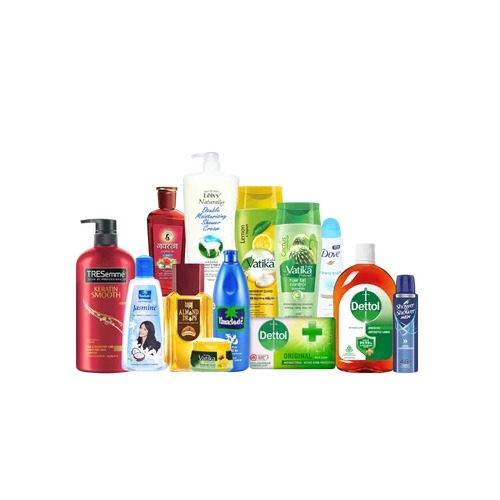
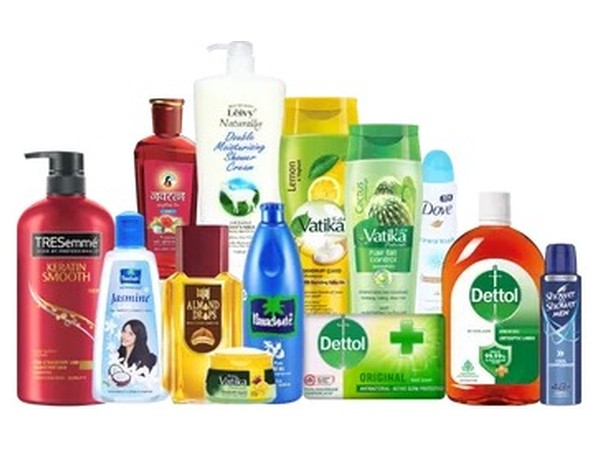
Let the pictures fill their tiles
Every category picture sat small in the middle of its box with white all
around it. Two causes, both fixed.

The box was square while the pictures are not. These are group shots — a
spread of bottles, a pile of spices — and they come out around 3:2, so a
square box left an empty band above and below every one. The box is 4:3
now, which is the shape the pictures actually are.

And the files carried a wide white margin of their own, which no box
shape could have absorbed. Each is trimmed to its subject and rescaled to
fill the frame: most went from filling about 70% of their width to 96%.

Two needed handling on their own. The oil photograph is portrait, so it
is recropped from the original to a landscape composition rather than
being left to fill only the height. The Others wordmark is four times as
wide as it is tall and cannot fill a 4:3 box at any size, so it is set at
a readable width and left as the label it is.

The shelf badges stay square, being round.

All fifteen still under 100 KB; 838 KB for the set.

diff --git a/src/storefront/styles/bundle.css b/src/storefront/styles/bundle.css
@@ -877,12 +877,29 @@ body.ready .page-hide{visibility:visible;opacity:1;transition:opacity .28s ease}
 }
 
 .cat-tile{text-align:center;transition:.2s var(--ease)}
+
+/* Wider than tall, because that is the shape the pictures are.
+ *
+ * These are group shots — a spread of bottles, a pile of spices — and
+ * they come out roughly 3:2. In a square box that left a band of empty
+ * white above and below every one, so the tiles looked mostly blank with
+ * a small picture floating in the middle. Matching the box to the
+ * pictures fills it without cropping anything away.
+ */
 .cat-tile-img{
   border:1px solid var(--line);border-radius:var(--radius);
   overflow:hidden;background:#fff;margin-bottom:9px;
-  aspect-ratio:1/1;transition:.2s var(--ease);
+  aspect-ratio:4/3;transition:.2s var(--ease);
 }
-.cat-tile-img img{width:100%;height:100%;object-fit:contain;transition:transform .4s var(--ease)}
+/* `contain`, never `cover`: a category picture has its subject arranged
+   across the whole frame, and cropping the edges off cuts the bottles at
+   either end out of the shot. No padding either — the margin is trimmed
+   out of the files themselves, so adding more here would only reintroduce
+   the empty band this is meant to remove. */
+.cat-tile-img img{
+  width:100%;height:100%;object-fit:contain;
+  transition:transform .4s var(--ease);
+}
 .cat-tile:hover .cat-tile-img{border-color:var(--red);box-shadow:var(--sh-lg)}
 .cat-tile:hover .cat-tile-img img{transform:scale(1.07)}
 .cat-tile:hover{transform:translateY(-3px)}
@@ -920,8 +937,14 @@ body.ready .page-hide{visibility:visible;opacity:1;transition:opacity .28s ease}
 
 /* An orange edge marks a shelf tile as a different kind of thing even
    once it has scrolled away from the rule. On white like the category
-   pictures, so it is not sitting in a tinted box of its own. */
-.cat-tile.is-shelf .cat-tile-img{border-color:var(--navy);background:#fff}
+   pictures, so it is not sitting in a tinted box of its own.
+
+   Square, unlike the categories: a globe and two round badges are as tall
+   as they are wide, and a 4:3 box would leave a margin down each side
+   rather than removing one. */
+.cat-tile.is-shelf .cat-tile-img{
+  border-color:var(--navy);background:#fff;aspect-ratio:1/1;
+}
 .cat-tile.is-shelf b{color:var(--navy-d)}
 .cat-tile.is-shelf:hover .cat-tile-img{border-color:var(--navy-d)}
 

diff --git a/src/storefront/styles/components/category-browser.css b/src/storefront/styles/components/category-browser.css
@@ -41,12 +41,29 @@
 }
 
 .cat-tile{text-align:center;transition:.2s var(--ease)}
+
+/* Wider than tall, because that is the shape the pictures are.
+ *
+ * These are group shots — a spread of bottles, a pile of spices — and
+ * they come out roughly 3:2. In a square box that left a band of empty
+ * white above and below every one, so the tiles looked mostly blank with
+ * a small picture floating in the middle. Matching the box to the
+ * pictures fills it without cropping anything away.
+ */
 .cat-tile-img{
   border:1px solid var(--line);border-radius:var(--radius);
   overflow:hidden;background:#fff;margin-bottom:9px;
-  aspect-ratio:1/1;transition:.2s var(--ease);
+  aspect-ratio:4/3;transition:.2s var(--ease);
 }
-.cat-tile-img img{width:100%;height:100%;object-fit:contain;transition:transform .4s var(--ease)}
+/* `contain`, never `cover`: a category picture has its subject arranged
+   across the whole frame, and cropping the edges off cuts the bottles at
+   either end out of the shot. No padding either — the margin is trimmed
+   out of the files themselves, so adding more here would only reintroduce
+   the empty band this is meant to remove. */
+.cat-tile-img img{
+  width:100%;height:100%;object-fit:contain;
+  transition:transform .4s var(--ease);
+}
 .cat-tile:hover .cat-tile-img{border-color:var(--red);box-shadow:var(--sh-lg)}
 .cat-tile:hover .cat-tile-img img{transform:scale(1.07)}
 .cat-tile:hover{transform:translateY(-3px)}
@@ -84,8 +101,14 @@
 
 /* An orange edge marks a shelf tile as a different kind of thing even
    once it has scrolled away from the rule. On white like the category
-   pictures, so it is not sitting in a tinted box of its own. */
-.cat-tile.is-shelf .cat-tile-img{border-color:var(--navy);background:#fff}
+   pictures, so it is not sitting in a tinted box of its own.
+
+   Square, unlike the categories: a globe and two round badges are as tall
+   as they are wide, and a 4:3 box would leave a margin down each side
+   rather than removing one. */
+.cat-tile.is-shelf .cat-tile-img{
+  border-color:var(--navy);background:#fff;aspect-ratio:1/1;
+}
 .cat-tile.is-shelf b{color:var(--navy-d)}
 .cat-tile.is-shelf:hover .cat-tile-img{border-color:var(--navy-d)}
 
